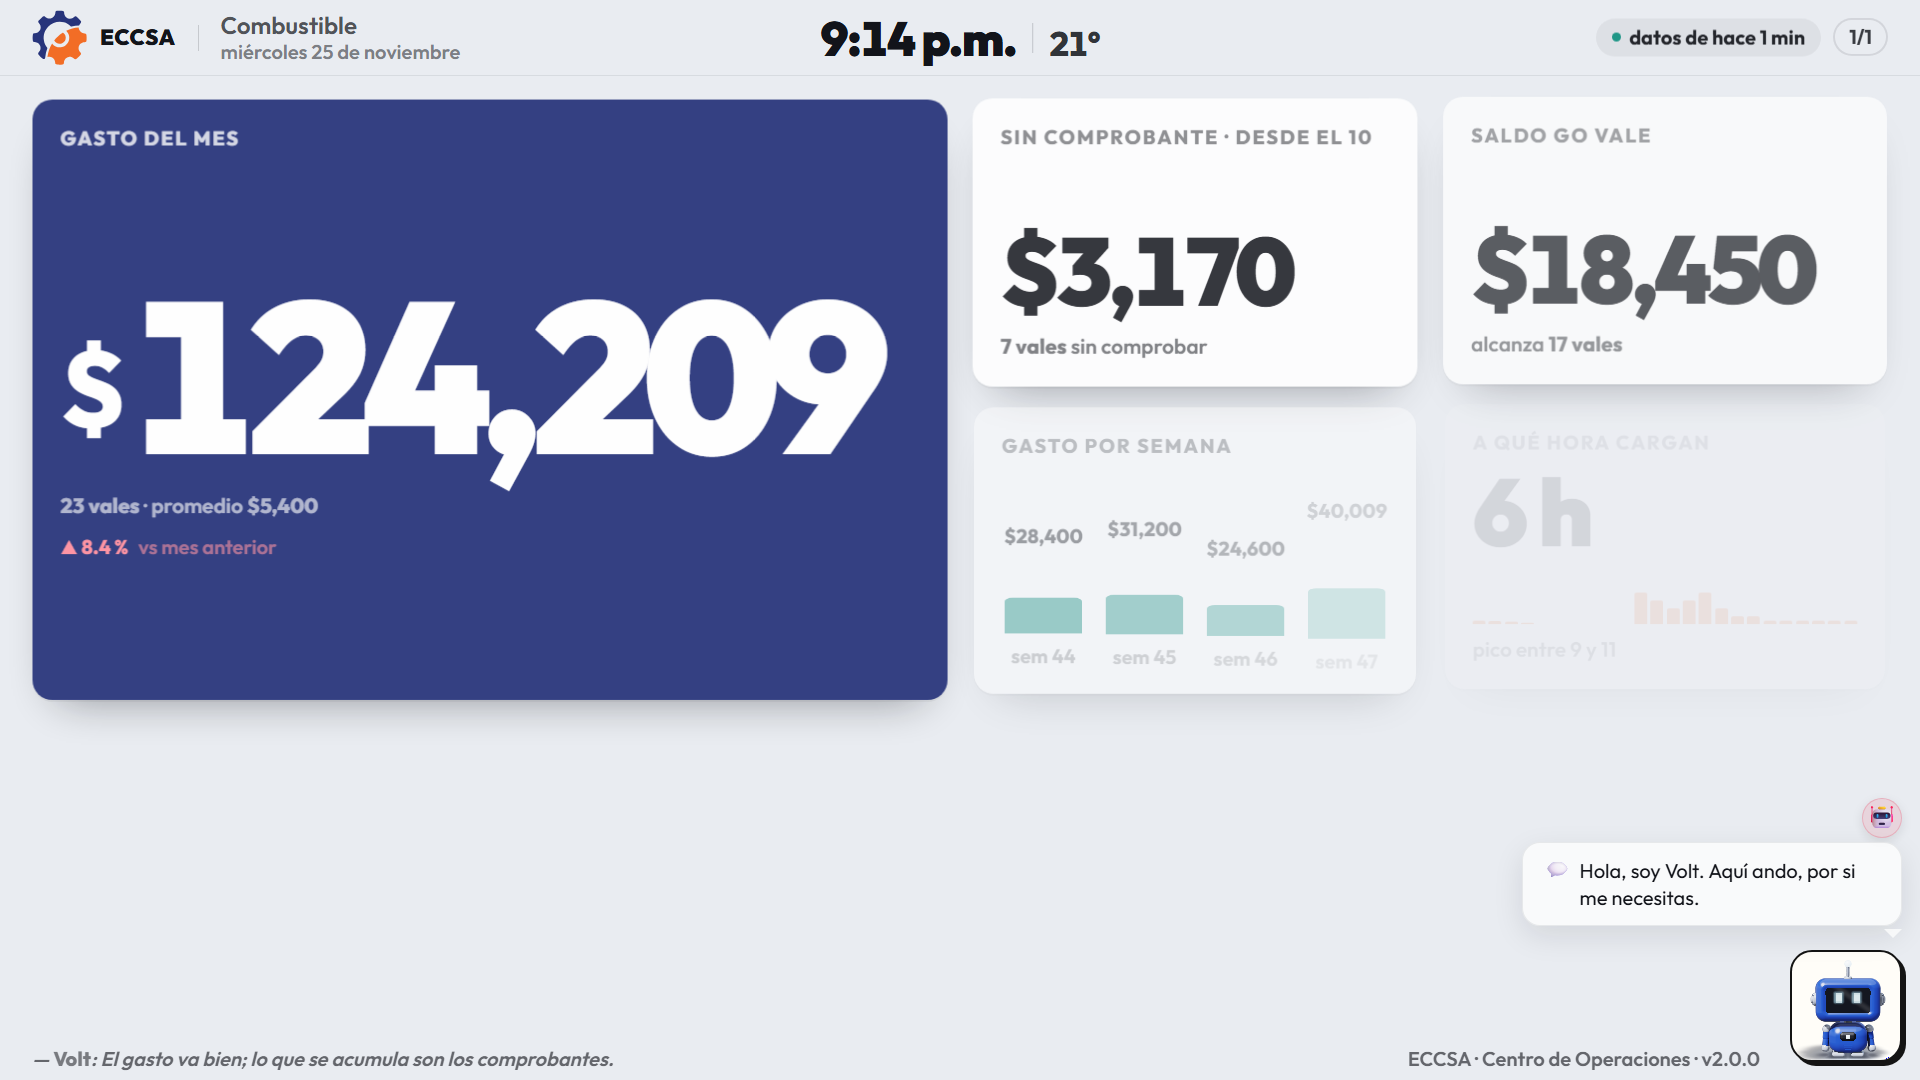
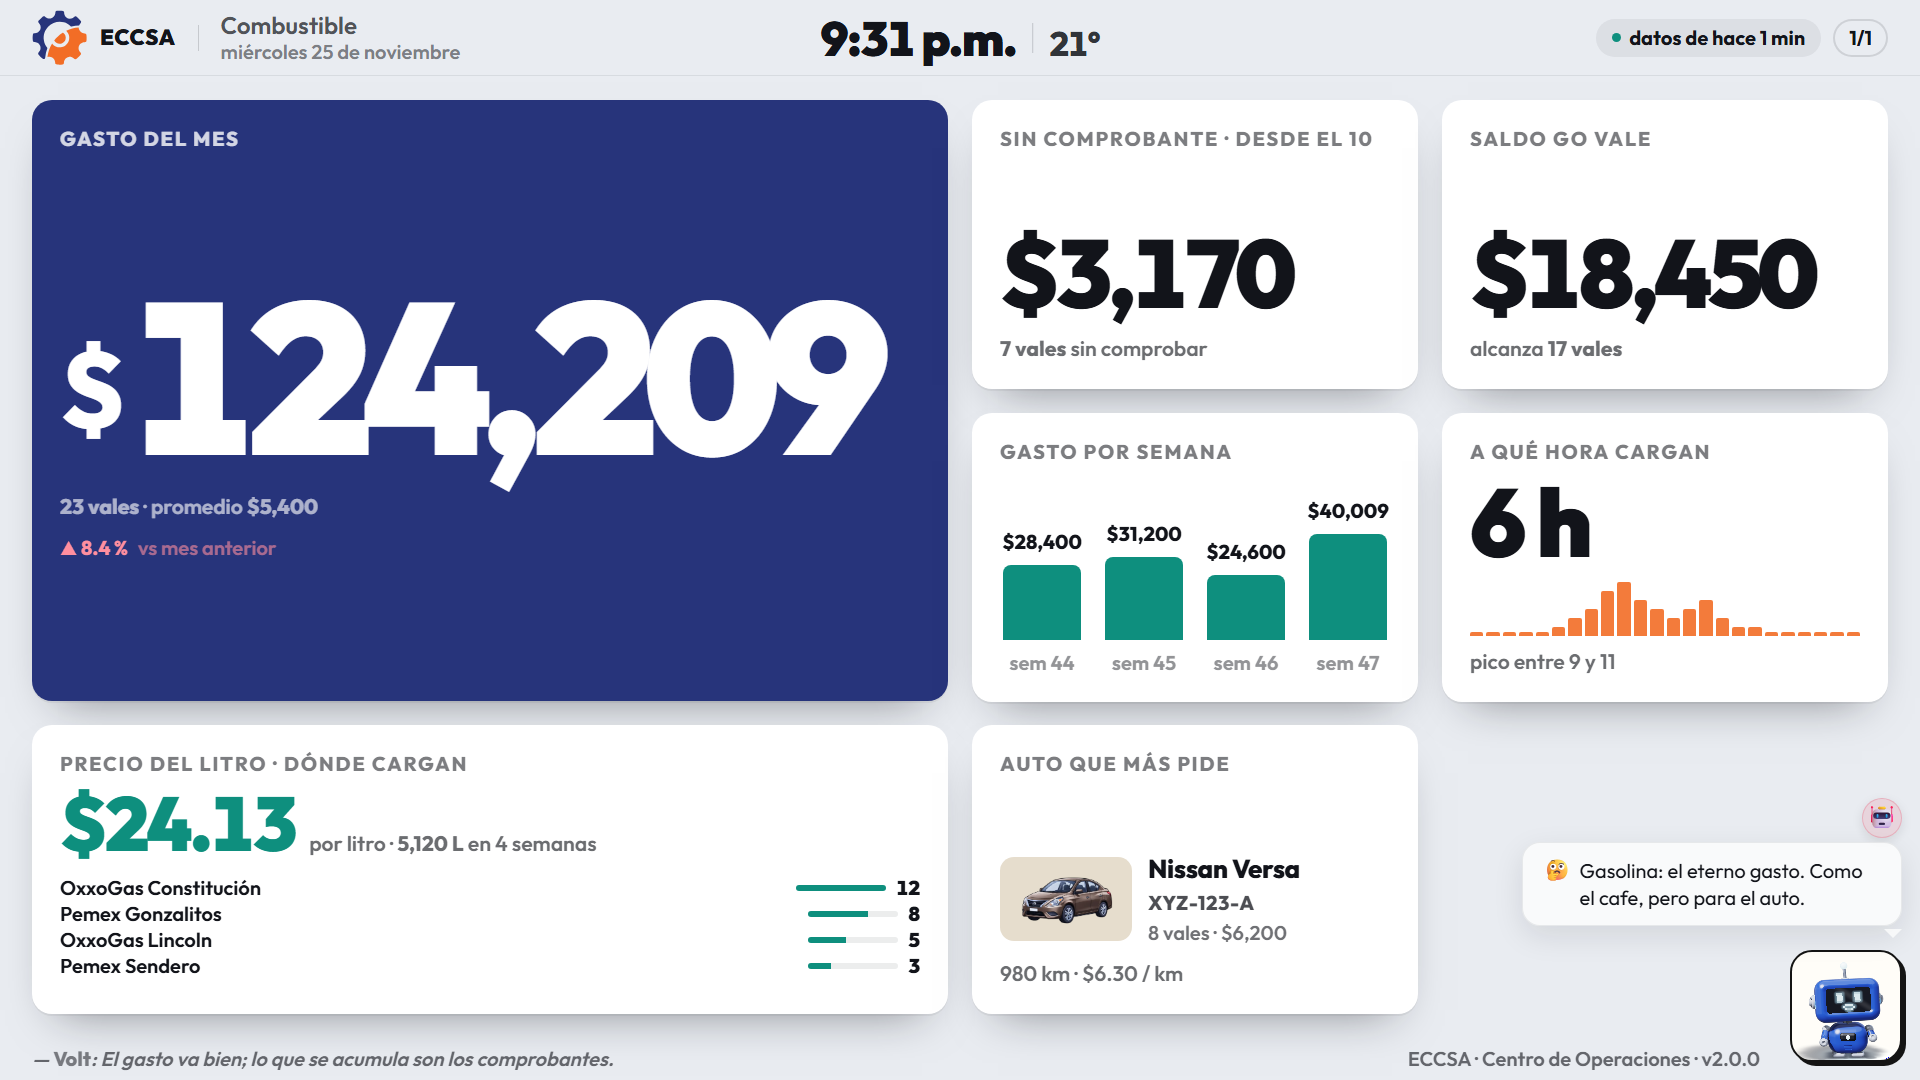
fix(bento): retardos 11+, tono de Volt con proposito, .dias acotado y transform final en none

diff --git a/src/lib/rediseno/anim.css b/src/lib/rediseno/anim.css
@@ -10,8 +10,10 @@
 	Reglas:
 	  · Sólo `transform` y `opacity`: nada de position/layout animado, para no
 	    mover ni un píxel de la retícula de 1920×1080 mientras se mide.
-	  · 300–450 ms, easing de salida y `both`: el estado final es el natural,
-	    así que una captura a mitad de animación no miente sobre el diseño.
+	  · 300–450 ms, easing de salida y `backwards`: la animación no se queda
+	    aplicada al terminar (nada de stacking contexts permanentes), y el
+	    estado final es el natural, así que una captura a mitad de animación
+	    no miente sobre el diseño.
 	  · Sin animaciones infinitas.
 	  · Se apaga con `prefers-reduced-motion: reduce` y con `?sinanim=1`
 	    (la clase `.sin-anim` que `+page.svelte` pone en `.escenario`).
@@ -34,13 +36,15 @@
 	}
 }
 
-/* Barras verticales: crecen desde su base. */
+/* Barras verticales: crecen desde su base y terminan en `transform: none`.
+   Terminar en `scaleY(1)` dejaría un stacking context de por vida en cada
+   barra; el estado final es idéntico, pero sin capa propia. */
 @keyframes k-barra-y {
 	from {
 		transform: scaleY(0);
 	}
 	to {
-		transform: scaleY(1);
+		transform: none;
 	}
 }
 
@@ -50,7 +54,7 @@
 		transform: scaleX(0);
 	}
 	to {
-		transform: scaleX(1);
+		transform: none;
 	}
 }
 
@@ -80,60 +84,82 @@
 
 /* ── filas de listas y series ────────────────────────────────────────────── */
 
-.bento :is(.lista, .movs, .estaciones, .rank-lista, .pers, .barras, .dias, .caras) > * {
-	animation: k-entra 360ms cubic-bezier(0.22, 0.8, 0.28, 1) both;
+/* `.dias` se acota a `.dcol`: en Comprobantes `.dias` es el badge de «3 días»
+   (un dato, no una serie) y animar sus `<span>`/`<small>` internos rompía la
+   lectura del vale. */
+.bento :is(.lista, .movs, .estaciones, .rank-lista, .pers, .barras, .caras) > *,
+.bento .dias > .dcol {
+	animation: k-entra 360ms cubic-bezier(0.22, 0.8, 0.28, 1) backwards;
 }
 
-/* Escalonado de 38 ms entre hermanos, hasta diez. Más de diez ya no se
-   distingue: la animación dura lo mismo que el resto de la lista. */
-.bento :is(.lista, .movs, .estaciones, .rank-lista, .pers, .barras, .dias, .caras)
+/* Escalonado de 38 ms entre hermanos, hasta diez. A partir del 11 va el ÚLTIMO
+   retardo (342 ms): el shorthand de arriba resetea `animation-delay` a 0, así
+   que sin esta regla la fila 11 entraba antes que la 2 en Legends (20 filas) y
+   el histograma de 24 h perdía el orden. */
+.bento :is(.lista, .movs, .estaciones, .rank-lista, .pers, .barras, .caras)
 	> :nth-child(1),
+.bento .dias > .dcol:nth-child(1),
 .bento .mini24 > i:nth-child(1) {
 	animation-delay: 0ms;
 }
-.bento :is(.lista, .movs, .estaciones, .rank-lista, .pers, .barras, .dias, .caras)
+.bento :is(.lista, .movs, .estaciones, .rank-lista, .pers, .barras, .caras)
 	> :nth-child(2),
+.bento .dias > .dcol:nth-child(2),
 .bento .mini24 > i:nth-child(2) {
 	animation-delay: 38ms;
 }
-.bento :is(.lista, .movs, .estaciones, .rank-lista, .pers, .barras, .dias, .caras)
+.bento :is(.lista, .movs, .estaciones, .rank-lista, .pers, .barras, .caras)
 	> :nth-child(3),
+.bento .dias > .dcol:nth-child(3),
 .bento .mini24 > i:nth-child(3) {
 	animation-delay: 76ms;
 }
-.bento :is(.lista, .movs, .estaciones, .rank-lista, .pers, .barras, .dias, .caras)
+.bento :is(.lista, .movs, .estaciones, .rank-lista, .pers, .barras, .caras)
 	> :nth-child(4),
+.bento .dias > .dcol:nth-child(4),
 .bento .mini24 > i:nth-child(4) {
 	animation-delay: 114ms;
 }
-.bento :is(.lista, .movs, .estaciones, .rank-lista, .pers, .barras, .dias, .caras)
+.bento :is(.lista, .movs, .estaciones, .rank-lista, .pers, .barras, .caras)
 	> :nth-child(5),
+.bento .dias > .dcol:nth-child(5),
 .bento .mini24 > i:nth-child(5) {
 	animation-delay: 152ms;
 }
-.bento :is(.lista, .movs, .estaciones, .rank-lista, .pers, .barras, .dias, .caras)
+.bento :is(.lista, .movs, .estaciones, .rank-lista, .pers, .barras, .caras)
 	> :nth-child(6),
+.bento .dias > .dcol:nth-child(6),
 .bento .mini24 > i:nth-child(6) {
 	animation-delay: 190ms;
 }
-.bento :is(.lista, .movs, .estaciones, .rank-lista, .pers, .barras, .dias, .caras)
+.bento :is(.lista, .movs, .estaciones, .rank-lista, .pers, .barras, .caras)
 	> :nth-child(7),
+.bento .dias > .dcol:nth-child(7),
 .bento .mini24 > i:nth-child(7) {
 	animation-delay: 228ms;
 }
-.bento :is(.lista, .movs, .estaciones, .rank-lista, .pers, .barras, .dias, .caras)
+.bento :is(.lista, .movs, .estaciones, .rank-lista, .pers, .barras, .caras)
 	> :nth-child(8),
+.bento .dias > .dcol:nth-child(8),
 .bento .mini24 > i:nth-child(8) {
 	animation-delay: 266ms;
 }
-.bento :is(.lista, .movs, .estaciones, .rank-lista, .pers, .barras, .dias, .caras)
+.bento :is(.lista, .movs, .estaciones, .rank-lista, .pers, .barras, .caras)
 	> :nth-child(9),
+.bento .dias > .dcol:nth-child(9),
 .bento .mini24 > i:nth-child(9) {
 	animation-delay: 304ms;
 }
-.bento :is(.lista, .movs, .estaciones, .rank-lista, .pers, .barras, .dias, .caras)
+.bento :is(.lista, .movs, .estaciones, .rank-lista, .pers, .barras, .caras)
 	> :nth-child(10),
+.bento .dias > .dcol:nth-child(10),
 .bento .mini24 > i:nth-child(10) {
+	animation-delay: 342ms;
+}
+.bento :is(.lista, .movs, .estaciones, .rank-lista, .pers, .barras, .caras)
+	> :nth-child(n + 11),
+.bento .dias > .dcol:nth-child(n + 11),
+.bento .mini24 > i:nth-child(n + 11) {
 	animation-delay: 342ms;
 }
 
@@ -146,7 +172,7 @@
 .bento .dbar,
 .bento .mini24 i {
 	transform-origin: bottom;
-	animation: k-barra-y 420ms cubic-bezier(0.22, 0.8, 0.28, 1) both;
+	animation: k-barra-y 420ms cubic-bezier(0.22, 0.8, 0.28, 1) backwards;
 }
 .bento .bbar {
 	animation-delay: 90ms;
@@ -163,7 +189,7 @@
 .bento .est-pista i,
 .bento .pista i {
 	transform-origin: left center;
-	animation: k-barra-x 420ms cubic-bezier(0.22, 0.8, 0.28, 1) both;
+	animation: k-barra-x 420ms cubic-bezier(0.22, 0.8, 0.28, 1) backwards;
 	animation-delay: 120ms;
 }
 
@@ -174,7 +200,7 @@
 .bento .thumb img,
 .bento .auto-foto img,
 .bento .escena .fondo {
-	animation: k-foto 420ms cubic-bezier(0.22, 0.8, 0.28, 1) both;
+	animation: k-foto 420ms cubic-bezier(0.22, 0.8, 0.28, 1) backwards;
 }
 
 /* La portada entra un poco más despacio: es una imagen grande y un zoom
@@ -186,7 +212,7 @@
 /* ── chips de la barra superior ──────────────────────────────────────────── */
 
 .marco .top .chip {
-	animation: k-chip 320ms cubic-bezier(0.22, 0.8, 0.28, 1) both;
+	animation: k-chip 320ms cubic-bezier(0.22, 0.8, 0.28, 1) backwards;
 }
 .marco .top .chip:nth-child(2) {
 	animation-delay: 45ms;

diff --git a/src/lib/components/VoltComentario.svelte b/src/lib/components/VoltComentario.svelte
@@ -41,17 +41,31 @@
 	let timer: ReturnType<typeof setTimeout>;
 	let carga: ReturnType<typeof setInterval>;
 	let ultimoAviso = 0;
+	/**
+	 * La voz de Volt no suena en cada comentario: la charla sale cada 11–19 s
+	 * y un tono así cansa. Sólo suena cuando hay algo que decir de verdad
+	 * (aviso nuevo del vigilante, internet que se va o vuelve) y, aun así,
+	 * como máximo una vez por minuto. Todo pasa por `tocar()`, que respeta el
+	 * mute y el silencio nocturno.
+	 */
+	const MS_ENTRE_VOCES = 60_000;
+	let ultimaVoz = 0;
+
+	function tonoVolt() {
+		const ahora = Date.now();
+		if (ahora - ultimaVoz < MS_ENTRE_VOCES) return;
+		ultimaVoz = ahora;
+		tocar('volt');
+	}
 
 	const REACCIONES = ['💬', '🤔', '😊', '⚡', '🤖', '💡', '🎯', '👀', '🔥', '✨', '🎉', '☕'];
 
-	function hablar(t: string, r: string) {
+	function hablar(t: string, r: string, importante = false) {
 		texto = t;
 		reaccion = r;
 		pauseWalking();
 		mascotState.set('speaking');
-		// Volt habla: dos notas amables. `tocar()` ya respeta el mute y el
-		// silencio de 22:00 a 07:00, así que aquí no se comprueba nada más.
-		tocar('volt');
+		if (importante) tonoVolt();
 		setTimeout(() => {
 			mascotState.set('idle');
 			resumeWalking();
@@ -61,15 +75,15 @@
 	function siguiente() {
 		if (volvio) {
 			volvio = false;
-			hablar(VOLVIO, '🌐');
+			hablar(VOLVIO, '🌐', true);
 		} else if (sinInternet) {
-			hablar(SIN_INTERNET, '📡');
+			hablar(SIN_INTERNET, '📡', true);
 		} else if (pendientes.length) {
 			const aviso = pendientes[0];
 			pendientes = pendientes.slice(1);
 			ultimoAviso = Math.max(ultimoAviso, aviso.id);
 			if (browser) localStorage.setItem(CLAVE_ULTIMO, String(ultimoAviso));
-			hablar(aviso.texto, aviso.nivel === 'rojo' ? '⚠' : '👀');
+			hablar(aviso.texto, aviso.nivel === 'rojo' ? '⚠' : '👀', true);
 		} else {
 			const screen = $currentScreen;
 			let t: string;

diff --git a/src/routes/+page.svelte b/src/routes/+page.svelte
@@ -69,9 +69,12 @@ import SwarmRebuild from '$lib/components/SwarmRebuild.svelte';
 import LogoTraceLoader from '$lib/components/effects/LogoTraceLoader.svelte';
 
 // Animación de entrada de TODO lo que hay dentro de una pantalla (filas,
-// barras, fotos, chips). Va al final de los imports para que sus reglas ganen
-// a las del componente cuando haga falta, y se apaga con `?sinanim=1` y con
-// `prefers-reduced-motion`.
+// barras, fotos, chips). Es CSS global (Svelte no lo acota con hash), se
+// importa una sola vez aquí y se apaga con `?sinanim=1` y con
+// `prefers-reduced-motion`. Ojo: el orden del import NO hace que estas reglas
+// ganen a los estilos `scoped` de cada componente —esos llevan el hash y
+// desempatan—; el archivo no compite con ellos, sólo añade animaciones que
+// ninguna pantalla declara.
 import '$lib/rediseno/anim.css';
 
 /* ── Configuración de la pantalla ─────────────────────────────── */

diff --git a/.superpowers/sdd/dashboard-rediseno-bento/task-15-report.md b/.superpowers/sdd/dashboard-rediseno-bento/task-15-report.md
@@ -108,3 +108,47 @@ quieto, no una versión rápida de la fiesta.
 - El escalonado se corta en 10 hermanos; una lista de 20 (Legends en `Equipo`)
   entra con las 10 primeras escalonadas y el resto con el último retardo. Se
   prefirió eso a que la lista tarde casi un segundo en terminar.
+
+## Fix round 1
+
+1. **Hermanos 11+ con retardo.** El shorthand resetea `animation-delay` a 0 y
+   sólo había `:nth-child(1..10)`, así que la fila 11 entraba antes que la 2.
+   Se añadió `:nth-child(n + 11) { animation-delay: 342ms; }` para
+   `.bento :is(...) > *`, `.dias > .dcol` y `.mini24 > i`. Verificado en el DOM:
+   `.mini24 i:nth-child(11)` y `:nth-child(24)` → `0.342s`; el criterio se
+   aplica igual a las 20 filas de Legends (`.r-fila`).
+2. **Volt ya no suena cada 11–19 s.** `hablar(t, r, importante = false)`: el
+   tono sólo se dispara cuando el texto es un aviso nuevo del vigilante, la
+   pérdida/regreso de internet o una presencia (`importante = true`), nunca en
+   la charla de relleno. Además `tonoVolt()` limita a **una vez cada 60 s**
+   (`MS_ENTRE_VOCES`) aunque lleguen varios avisos seguidos. Sigue pasando por
+   `tocar()`, así que mudo y 22:00–07:00 siguen mandando.
+3. **`.dias` acotado.** La serie de Actividad ahora es `.bento .dias > .dcol`
+   (base y retardos). El badge de «3 días» de Comprobantes ya no se anima:
+   medido en el DOM, `.bento .dias` y su `<span>` dan `animationName: none`,
+   mientras `.bento .fila` sigue en `k-entra`.
+4. **Sin `transform` permanente.** Los keyframes `k-barra-y` / `k-barra-x`
+   terminan en `transform: none` y las animaciones usan `backwards` en vez de
+   `both`: al acabar, la animación deja de aplicarse y el elemento vuelve a su
+   `transform` natural. Medido después de la cascada: `.bbar`,
+   `.mini24 i:nth-child(11)` y `.mini24 i:nth-child(24)` →
+   `transform: none` (antes quedaba `matrix(1,0,0,1,0,0)`, que mantiene el
+   stacking context).
+5. **Comentario del import corregido.** Ya no afirma que importar al final haga
+   ganar reglas: explica que `anim.css` es global, que los estilos `scoped`
+   llevan el hash y desempatan, y que el archivo sólo añade animaciones que
+   ninguna pantalla declara.
+
+**Verificación del round:**
+
+- `npm run check` → **7 errores, 50 avisos** (baseline).
+- `npm run build` → `Wrote site to "build"`.
+- Capturas regeneradas esperando a que la pantalla monte y a que la cascada
+  termine (selector `.bento .cell` + **2 s**; en headless la hidratación tarda
+  ~2–3 s y la espera fija de 2.2 s anterior cazaba un fotograma a media
+  entrada): `capturas/t15-combustible.png` (normal),
+  `capturas/t15-combustible-sinanim.png` (`?sinanim=1`) y
+  `capturas/t15-asistencia.png`. Las cajas siguen idénticas con y sin
+  animación (`[0,76,1920,962]`, `[32,100,916,601]`, `[1000,477,84,201]`).
+- Filas: `k-entra` con retardos `0 / 0.038 / 0.076 s`. Con `?sinanim=1`, las
+  cinco medidas devuelven `animationName: none`.
